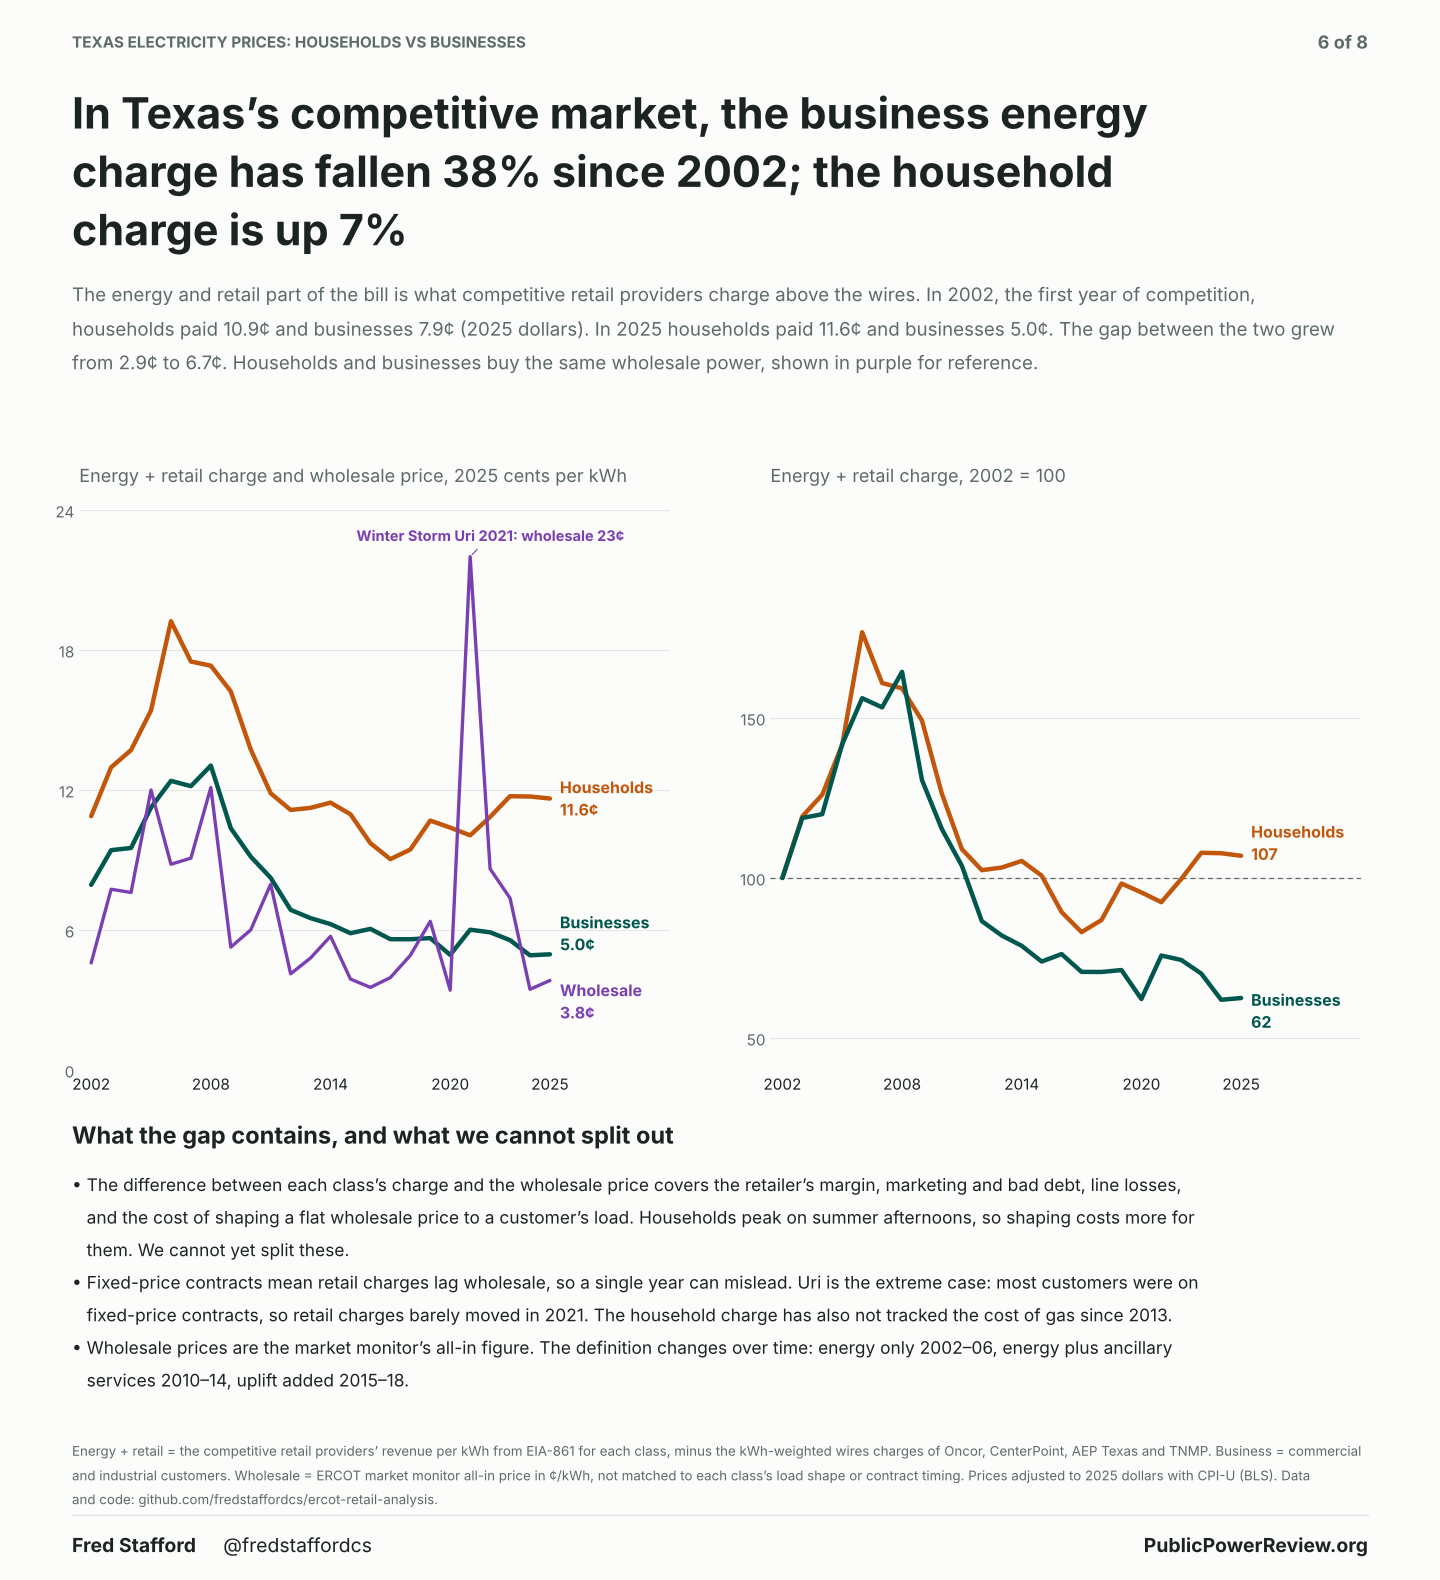
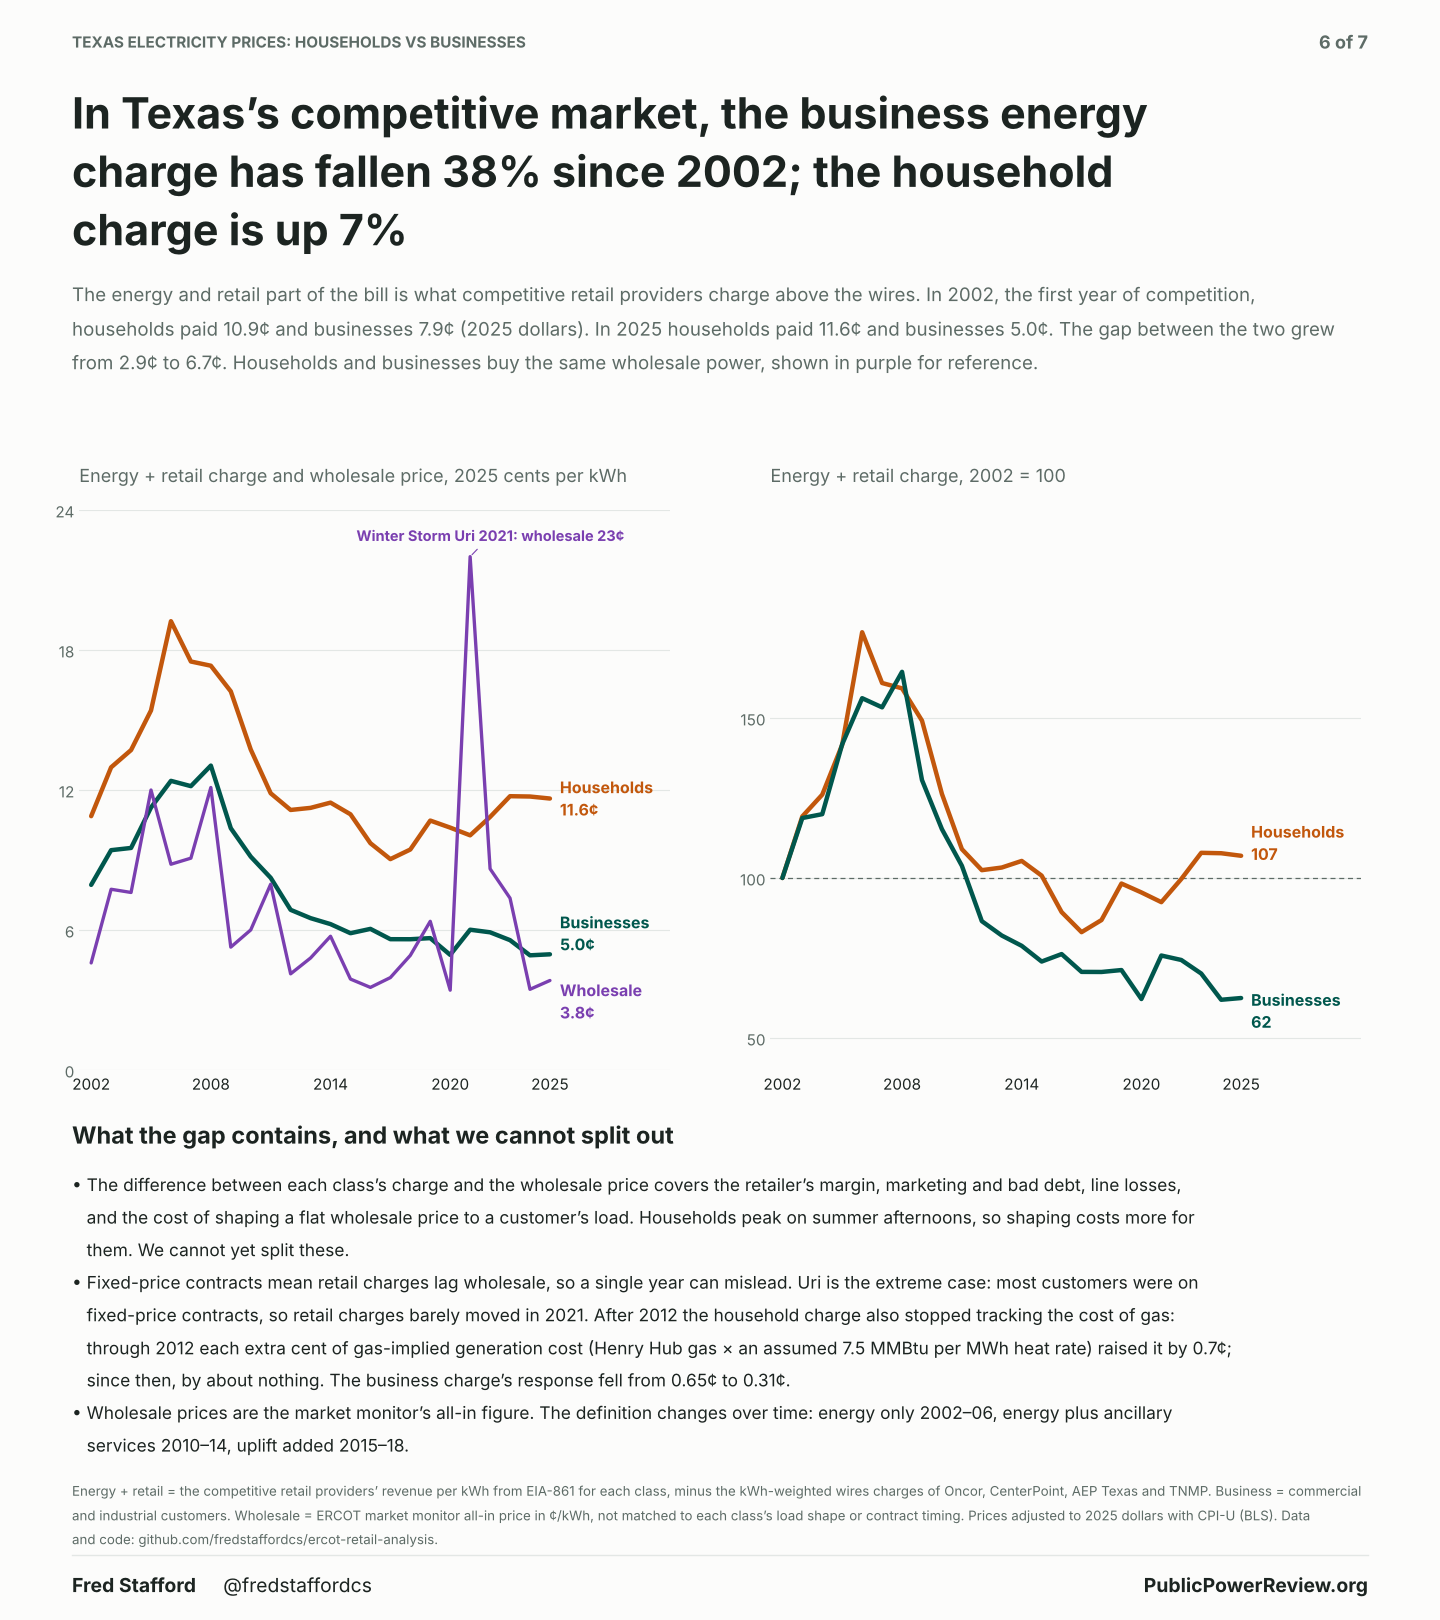
Replace gas-decoupling chart with load-shape chart; series is now seven charts
Drops the gas-cost scatter (07) and moves its finding into chart 6's text. Adds the load-shape
cost chart as 07. All charts read 'of 7'.

Claude-Session: https://claude.ai/code/session_01LpgUEjWLALDfo5rXXgdxW2

diff --git a/code/charts/competition_series/06_energy_charge_vs_wholesale.py b/code/charts/competition_series/06_energy_charge_vs_wholesale.py
@@ -36,7 +36,7 @@ wr=whR.loc[2002:2025]; er=r.energy_retail.loc[2002:2025]*k; ec=c.energy_retail.l
 mr=er-wr; mc=ec-wr
 av=lambda s,a,b:s.loc[a:b].mean()
 print({n:(round(av(mr,*p),1),round(av(mc,*p),1)) for n,p in [('02-08',(2002,2008)),('10-19',(2010,2019)),('22-25',(2022,2025))]}, round(mr[2025],1),round(mc[2025],1))
-H=15.8; fy=lambda i:1-(i+.2)/H; fyt=lambda i:1-i/H
+H=16.2; fy=lambda i:1-(i+.2)/H; fyt=lambda i:1-i/H
 f=plt.figure(figsize=(14.4,H),dpi=100,facecolor=BG)
 f.text(.05,fyt(1.75),'In Texas’s competitive market, the business energy\ncharge has fallen '+f'{1-ec[2025]/ec[2002]:.0%} since 2002; the household\ncharge is up {er[2025]/er[2002]-1:.0%}',fontsize=31,fontweight='bold',color=FG,va='center',linespacing=1.12)
 sub=(f'The energy and retail part of the bill is what competitive retail providers charge above the wires. In 2002, the first year of competition, households paid {er[2002]:.1f}¢ and businesses {ec[2002]:.1f}¢ (2025 dollars). In 2025 households paid {er[2025]:.1f}¢ and businesses {ec[2025]:.1f}¢. '
@@ -62,14 +62,14 @@ for s_,c_,l in [(er,ER,'Households'),(ec,TR,'Businesses')]:
     v=ix(s_); b.plot(v.index,v.values,color=c_,lw=3.2,zorder=6,solid_capstyle='round'); b.text(2025.5,v[2025]+(4 if l=='Households' else -4),f'{l}\n{v[2025]:.0f}',color=c_,fontsize=11.5,fontweight='bold',va='center',linespacing=1.15)
 f.text(.05,fy(11.15),'What the gap contains, and what we cannot split out',fontsize=17,fontweight='bold',color=FG,va='center')
 txt=('• The difference between each class’s charge and the wholesale price covers the retailer’s margin, marketing and bad debt, line losses, and the cost of shaping a flat wholesale price to a customer’s load. Households peak on summer afternoons, so shaping costs more for them. We cannot yet split these.\n'
-     '• Fixed-price contracts mean retail charges lag wholesale, so a single year can mislead. Uri is the extreme case: most customers were on fixed-price contracts, so retail charges barely moved in 2021. The household charge has also not tracked the cost of gas since 2013.\n'
+     '• Fixed-price contracts mean retail charges lag wholesale, so a single year can mislead. Uri is the extreme case: most customers were on fixed-price contracts, so retail charges barely moved in 2021. After 2012 the household charge also stopped tracking the cost of gas: through 2012 each extra cent of gas-implied generation cost (Henry Hub gas × an assumed 7.5 MMBtu per MWh heat rate) raised it by 0.7¢; since then, by about nothing. The business charge’s response fell from 0.65¢ to 0.31¢.\n'
      '• Wholesale prices are the market monitor’s all-in figure. The definition changes over time: energy only 2002–06, energy plus ancillary services 2010–14, uplift added 2015–18.')
 f.text(.05,fy(11.5),'\n'.join(textwrap.fill(l,138,subsequent_indent='   ') for l in txt.split('\n')),fontsize=12.5,color=FG,va='top',linespacing=1.55)
 foot=('Energy + retail = the competitive retail providers’ revenue per kWh from EIA-861 for each class, minus the kWh-weighted wires charges of Oncor, CenterPoint, AEP Texas and TNMP. Business = commercial and industrial customers. Wholesale = ERCOT market monitor all-in price in ¢/kWh, not matched to each class’s load shape or contract timing. '
       'Prices adjusted to 2025 dollars with CPI-U (BLS). Data and code: github.com/fredstaffordcs/ercot-retail-analysis.')
-f.text(.05,fy(14.2),textwrap.fill(foot,198),fontsize=9.6,color=MU,va='top',linespacing=1.5)
-f.add_artist(Line2D([.05,.95],[fy(14.95)]*2,color=GR,lw=1,transform=f.transFigure))
-f.text(.05,fy(15.25),'Fred Stafford',fontsize=14,fontweight='bold',color=FG,va='center'); f.text(.155,fy(15.25),'@fredstaffordcs',fontsize=14,color=FG,va='center')
-f.text(.95,fy(15.25),'PublicPowerReview.org',fontsize=14,fontweight='bold',color=FG,va='center',ha='right')
-f.text(.95,fyt(.42),'6 of 8',fontsize=13,fontweight='bold',color=MU,ha='right',va='center'); f.text(.05,fyt(.42),'TEXAS ELECTRICITY PRICES: HOUSEHOLDS VS BUSINESSES',fontsize=11,color=MU,va='center',fontweight='bold')
+f.text(.05,fy(14.6),textwrap.fill(foot,198),fontsize=9.6,color=MU,va='top',linespacing=1.5)
+f.add_artist(Line2D([.05,.95],[fy(15.35)]*2,color=GR,lw=1,transform=f.transFigure))
+f.text(.05,fy(15.65),'Fred Stafford',fontsize=14,fontweight='bold',color=FG,va='center'); f.text(.155,fy(15.65),'@fredstaffordcs',fontsize=14,color=FG,va='center')
+f.text(.95,fy(15.65),'PublicPowerReview.org',fontsize=14,fontweight='bold',color=FG,va='center',ha='right')
+f.text(.95,fyt(.42),'6 of 7',fontsize=13,fontweight='bold',color=MU,ha='right',va='center'); f.text(.05,fyt(.42),'TEXAS ELECTRICITY PRICES: HOUSEHOLDS VS BUSINESSES',fontsize=11,color=MU,va='center',fontweight='bold')
 OUT=ROOT/'charts/competition_series'; OUT.mkdir(parents=True,exist_ok=True); f.savefig(OUT/'06_energy_charge_vs_wholesale.png',facecolor=BG)

diff --git a/code/charts/competition_series/02_gap_vs_public_power.py b/code/charts/competition_series/02_gap_vs_public_power.py
@@ -36,7 +36,7 @@ hs=ser(dr,Pr); bs=ser(dc,Pc); phs=pr.loc[1990:2025]; pbs=pc.loc[1990:2025]
 ratio=hs/bs; pratio=phs/pbs; gap=hs-bs; pgap=phs-pbs
 H=16.7; fy=lambda i:1-(i+.2)/H; fyt=lambda i:1-i/H
 f=plt.figure(figsize=(14.4,H),dpi=100,facecolor=BG)
-f.text(.05,fyt(.42),'TEXAS ELECTRICITY PRICES: HOUSEHOLDS VS BUSINESSES',fontsize=11,color=MU,va='center',fontweight='bold'); f.text(.95,fyt(.42),'2 of 8',fontsize=13,fontweight='bold',color=MU,ha='right',va='center')
+f.text(.05,fyt(.42),'TEXAS ELECTRICITY PRICES: HOUSEHOLDS VS BUSINESSES',fontsize=11,color=MU,va='center',fontweight='bold'); f.text(.95,fyt(.42),'2 of 7',fontsize=13,fontweight='bold',color=MU,ha='right',va='center')
 f.text(.05,fyt(1.75),f'Under competition, ERCOT households’ price\npremium over businesses has grown from {ratio[2001]:.2f}× to {ratio[2025]:.2f}×;\nin public power it barely moved',fontsize=31,fontweight='bold',color=FG,va='center',linespacing=1.12)
 sub=(f'Household price divided by business price, in the ERCOT region. In 2001, the last year of regulated rates, households paid {ratio[2001]:.2f} times the business price; in 2025, {ratio[2025]:.2f} times. At ERCOT’s municipal utilities and co-ops, which are outside competition, the ratio went from {pratio[2001]:.2f} to {pratio[2025]:.2f}. '
      f'In cents, the household premium grew from {gap[2001]:.1f}¢ to {gap[2025]:.1f}¢ per kWh in competitive ERCOT and from {pgap[2001]:.1f}¢ to {pgap[2025]:.1f}¢ in public power.')

diff --git a/code/charts/competition_series/01_price_levels.py b/code/charts/competition_series/01_price_levels.py
@@ -68,6 +68,6 @@ f.text(.05,fy(13.75),textwrap.fill(foot,198),fontsize=9.6,color=MU,va='top',line
 f.add_artist(Line2D([.05,.95],[fy(14.8)]*2,color=GR,lw=1,transform=f.transFigure))
 f.text(.05,fy(15.1),'Fred Stafford',fontsize=14,fontweight='bold',color=FG,va='center'); f.text(.155,fy(15.1),'@fredstaffordcs',fontsize=14,color=FG,va='center')
 f.text(.95,fy(15.1),'PublicPowerReview.org',fontsize=14,fontweight='bold',color=FG,va='center',ha='right')
-f.text(.95,fy(.42),'1 of 8',fontsize=13,fontweight='bold',color=MU,ha='right',va='center'); f.text(.05,fy(.42),'TEXAS ELECTRICITY PRICES: HOUSEHOLDS VS BUSINESSES',fontsize=11,color=MU,va='center',fontweight='bold')
+f.text(.95,fy(.42),'1 of 7',fontsize=13,fontweight='bold',color=MU,ha='right',va='center'); f.text(.05,fy(.42),'TEXAS ELECTRICITY PRICES: HOUSEHOLDS VS BUSINESSES',fontsize=11,color=MU,va='center',fontweight='bold')
 OUT=ROOT/'charts/competition_series'; OUT.mkdir(parents=True,exist_ok=True); f.savefig(OUT/'01_price_levels.png',facecolor=BG)
 print(hs[[2001,2025]].round(2).to_dict(),bs[[2001,2025]].round(2).to_dict(),phs[[2001,2025]].round(2).to_dict(),pbs[[2001,2025]].round(2).to_dict())

diff --git a/code/charts/competition_series/07_load_shape_vs_retail.py b/code/charts/competition_series/07_load_shape_vs_retail.py
@@ -85,5 +85,5 @@ f.text(.05,fy(16.75),textwrap.fill(foot,200),fontsize=9.6,color=MU,va='top',line
 f.add_artist(plt.Line2D([.05,.95],[fy(17.85),fy(17.85)],color=GR,lw=1))
 f.text(.05,fy(18.15),'Fred Stafford',fontsize=14,fontweight='bold',color=FG,va='center'); f.text(.155,fy(18.15),'@fredstaffordcs',fontsize=14,color=FG,va='center')
 f.text(.95,fy(18.15),'PublicPowerReview.org',fontsize=14,fontweight='bold',color=FG,va='center',ha='right')
-f.text(.95,fyt(.42),'8 of 8',fontsize=13,fontweight='bold',color=MU,ha='right',va='center'); f.text(.05,fyt(.42),'TEXAS ELECTRICITY PRICES: HOUSEHOLDS VS BUSINESSES',fontsize=11,color=MU,va='center',fontweight='bold')
-OUT=ROOT/'charts/competition_series'; OUT.mkdir(parents=True,exist_ok=True); f.savefig(OUT/'08_load_shape_vs_retail.png',facecolor=BG)
+f.text(.95,fyt(.42),'7 of 7',fontsize=13,fontweight='bold',color=MU,ha='right',va='center'); f.text(.05,fyt(.42),'TEXAS ELECTRICITY PRICES: HOUSEHOLDS VS BUSINESSES',fontsize=11,color=MU,va='center',fontweight='bold')
+OUT=ROOT/'charts/competition_series'; OUT.mkdir(parents=True,exist_ok=True); f.savefig(OUT/'07_load_shape_vs_retail.png',facecolor=BG)

diff --git a/code/charts/competition_series/03_price_components.py b/code/charts/competition_series/03_price_components.py
@@ -78,6 +78,6 @@ f.text(.05,fy(14.5),textwrap.fill(foot,198),fontsize=9.6,color=MU,va='top',lines
 f.add_artist(Line2D([.05,.95],[fy(15.5)]*2,color=GR,lw=1,transform=f.transFigure))
 f.text(.05,fy(15.82),'Fred Stafford',fontsize=14,fontweight='bold',color=FG,va='center'); f.text(.155,fy(15.82),'@fredstaffordcs',fontsize=14,color=FG,va='center')
 f.text(.95,fy(15.82),'PublicPowerReview.org',fontsize=14,fontweight='bold',color=FG,va='center',ha='right')
-f.text(.95,fyt(.42),'3 of 8',fontsize=13,fontweight='bold',color=MU,ha='right',va='center'); f.text(.05,fyt(.42),'TEXAS ELECTRICITY PRICES: HOUSEHOLDS VS BUSINESSES',fontsize=11,color=MU,va='center',fontweight='bold')
+f.text(.95,fyt(.42),'3 of 7',fontsize=13,fontweight='bold',color=MU,ha='right',va='center'); f.text(.05,fyt(.42),'TEXAS ELECTRICITY PRICES: HOUSEHOLDS VS BUSINESSES',fontsize=11,color=MU,va='center',fontweight='bold')
 OUT=ROOT/'charts/competition_series'; OUT.mkdir(parents=True,exist_ok=True); f.savefig(OUT/'03_price_components.png',facecolor=BG)
 print(dh.round(2).to_dict(),db.round(2).to_dict())

diff --git a/code/charts/competition_series/05_transmission_allocation.py b/code/charts/competition_series/05_transmission_allocation.py
@@ -70,5 +70,5 @@ f.text(.05,fy(14.0),textwrap.fill(foot,198),fontsize=9.6,color=MU,va='top',lines
 f.add_artist(Line2D([.05,.95],[fy(15.1)]*2,color=GR,lw=1,transform=f.transFigure))
 f.text(.05,fy(15.4),'Fred Stafford',fontsize=14,fontweight='bold',color=FG,va='center'); f.text(.155,fy(15.4),'@fredstaffordcs',fontsize=14,color=FG,va='center')
 f.text(.95,fy(15.4),'PublicPowerReview.org',fontsize=14,fontweight='bold',color=FG,va='center',ha='right')
-f.text(.95,fyt(.42),'5 of 8',fontsize=13,fontweight='bold',color=MU,ha='right',va='center'); f.text(.05,fyt(.42),'TEXAS ELECTRICITY PRICES: HOUSEHOLDS VS BUSINESSES',fontsize=11,color=MU,va='center',fontweight='bold')
+f.text(.95,fyt(.42),'5 of 7',fontsize=13,fontweight='bold',color=MU,ha='right',va='center'); f.text(.05,fyt(.42),'TEXAS ELECTRICITY PRICES: HOUSEHOLDS VS BUSINESSES',fontsize=11,color=MU,va='center',fontweight='bold')
 OUT=ROOT/'charts/competition_series'; OUT.mkdir(parents=True,exist_ok=True); f.savefig(OUT/'05_transmission_allocation.png',facecolor=BG)

diff --git a/code/charts/competition_series/04_ercot_vs_nonercot.py b/code/charts/competition_series/04_ercot_vs_nonercot.py
@@ -84,5 +84,5 @@ f.text(.05,fy(15.8),textwrap.fill(foot,198),fontsize=9.6,color=MU,va='top',lines
 f.add_artist(Line2D([.05,.95],[fy(17.5)]*2,color=GR,lw=1,transform=f.transFigure))
 f.text(.05,fy(17.85),'Fred Stafford',fontsize=14,fontweight='bold',color=FG,va='center'); f.text(.155,fy(17.85),'@fredstaffordcs',fontsize=14,color=FG,va='center')
 f.text(.95,fy(17.85),'PublicPowerReview.org',fontsize=14,fontweight='bold',color=FG,va='center',ha='right')
-f.text(.95,fyt(.42),'4 of 8',fontsize=13,fontweight='bold',color=MU,ha='right',va='center'); f.text(.05,fyt(.42),'TEXAS ELECTRICITY PRICES: HOUSEHOLDS VS BUSINESSES',fontsize=11,color=MU,va='center',fontweight='bold')
+f.text(.95,fyt(.42),'4 of 7',fontsize=13,fontweight='bold',color=MU,ha='right',va='center'); f.text(.05,fyt(.42),'TEXAS ELECTRICITY PRICES: HOUSEHOLDS VS BUSINESSES',fontsize=11,color=MU,va='center',fontweight='bold')
 OUT=ROOT/'charts/competition_series'; OUT.mkdir(parents=True,exist_ok=True); f.savefig(OUT/'04_ercot_vs_nonercot.png',facecolor=BG)

diff --git a/charts/competition_series/README.md b/charts/competition_series/README.md
@@ -1,6 +1,6 @@
 # Competition series: households vs. businesses in Texas
 
-Eight charts on whether retail competition has lowered Texas electricity bills. Prices are in 2025 dollars (CPI-U); ratios are unaffected by inflation.
+Seven charts on whether retail competition has lowered Texas electricity bills. Prices are in 2025 dollars (CPI-U); ratios are unaffected by inflation.
 
 | # | File | Base year |
 |---|---|---|
@@ -10,10 +10,9 @@ Eight charts on whether retail competition has lowered Texas electricity bills. 
 | 4 | `04_ercot_vs_nonercot.png` | 2001 |
 | 5 | `05_transmission_allocation.png` | 2002 |
 | 6 | `06_energy_charge_vs_wholesale.png` | 2002 |
-| 7 | `07_energy_charge_vs_gas_cost.png` | 2002 |
-| 8 | `08_load_shape_vs_retail.png` | 2011 (first year of load-profile prices) |
+| 7 | `07_load_shape_vs_retail.png` | 2011 (first year of load-profile prices) |
 
-**Base years differ.** 2001 is the last year of regulated, bundled rates, and is used where total prices are compared (charts 1, 2, 4). The energy-and-retail split, the transmission allocation and the wholesale comparisons exist only from competition in 2002, so charts 3 and 5–7 start there. Chart 8 starts in 2011, the first full year of ERCOT's nodal real-time prices, and compares trends and multi-year averages rather than a single base year.
+**Base years differ.** 2001 is the last year of regulated, bundled rates, and is used where total prices are compared (charts 1, 2 and 4). The energy-and-retail split, the transmission allocation and the wholesale comparisons exist only from competition in 2002, so charts 3, 5 and 6 start there. Chart 7 starts in 2011, the first full year of ERCOT's nodal real-time prices, and compares trends and multi-year averages rather than a single base year.
 
 **Reclassification caveat.** From 2002, public-authority and lighting customers drop out of the reported ERCOT data, which lowers the business price by about 0.2¢. Measured from 2001, this overstates the business decline by about 2 percentage points and the 2025 household-to-business ratio by about 0.07.
 

diff --git a/data/competition_series/README.md b/data/competition_series/README.md
@@ -9,5 +9,5 @@ Used by `code/charts/competition_series/`. Other inputs come from `data/statewid
 | `eia_mer_t09_08_prices_by_sector.csv`, `eia_mer_t07_06_sales_by_sector.csv` | US retail prices and sales by sector | EIA Monthly Energy Review, tables 9.8 and 7.6 |
 | `us_series_1990_2025.csv` | US household and business prices (nominal ¢/kWh) and ratio | Derived from the two files above |
 | `residential_transmission_allocation_vs_kwh_share_2002_2025.csv` | Residential share of the 4CP transmission allocator (weighted by each utility’s transmission cost) against the residential share of kWh delivered | Transmission cost recovery factor filings; EIA-861 |
-| `wholesale_benchmarks_2002_2025.csv` | Wholesale benchmarks in ¢/kWh: `spot` (market monitor all-in), `lag1`, `avg2`, `avg3` (trailing averages), `gas` (Henry Hub annual average × an assumed 7.5 MMBtu/MWh heat rate) | `data/reference/ercot_wholesale_2002_2025.csv`; EIA Henry Hub |
+| `wholesale_benchmarks_2002_2025.csv` | Wholesale benchmarks in ¢/kWh: `spot` (market monitor all-in), `lag1`, `avg2`, `avg3` (trailing averages), `gas` (Henry Hub annual average × an assumed 7.5 MMBtu/MWh heat rate) | `data/reference/ercot_wholesale_2002_2025.csv`; EIA Henry Hub. No script reads this file; it backs the gas-cost slopes quoted on chart 6 (household 0.72¢ per cent of gas through 2012, about 0 after; business 0.65¢ to 0.31¢) |
 | `load_shape_cost_by_profile_2011_2026.csv` | Wholesale energy cost of each ERCOT load-profile type (nominal ¢/kWh): Σ(15-minute kWh × real-time load-zone price) ÷ Σ kWh, weather zones weighted by native load. `res` = mean of RESLOWR and RESHIWR; `bus_small` = mean of the four small-business profiles; `sys` = system load-weighted price; `flat` = time-weighted price. 2021 excludes Feb 10–20; 2026 is January–October | ERCOT Backcasted (Actual) Load Profiles; ERCOT report 13061 (RTM load zone prices); ERCOT native load by weather zone |

diff --git a/CHANGELOG.md b/CHANGELOG.md
@@ -5,8 +5,7 @@ Versions follow [Semantic Versioning](https://semver.org/) adapted for data: a *
 ## [Unreleased]
 
 ### Added
-- `charts/competition_series/`: seven numbered charts on household and business prices under retail competition, with the scripts in `code/charts/competition_series/` and extra inputs in `data/competition_series/` (non-ERCOT Texas utilities, US, transmission allocation, wholesale benchmarks).
-- Chart 8, `08_load_shape_vs_retail.png`: wholesale cost of household vs business load shapes against their retail energy charges, 2011–2025, with input `data/competition_series/load_shape_cost_by_profile_2011_2026.csv`. Charts 1–7 now read "of 8".
+- `charts/competition_series/`: seven numbered charts on household and business prices under retail competition, with the scripts in `code/charts/competition_series/` and extra inputs in `data/competition_series/` (non-ERCOT Texas utilities, US, transmission allocation, wholesale benchmarks, load-shape cost). Chart 7 compares the wholesale cost of household and business load shapes with their retail energy charges, 2011–2025.
 
 ## [1.1.1] - 2026-11-16
 
